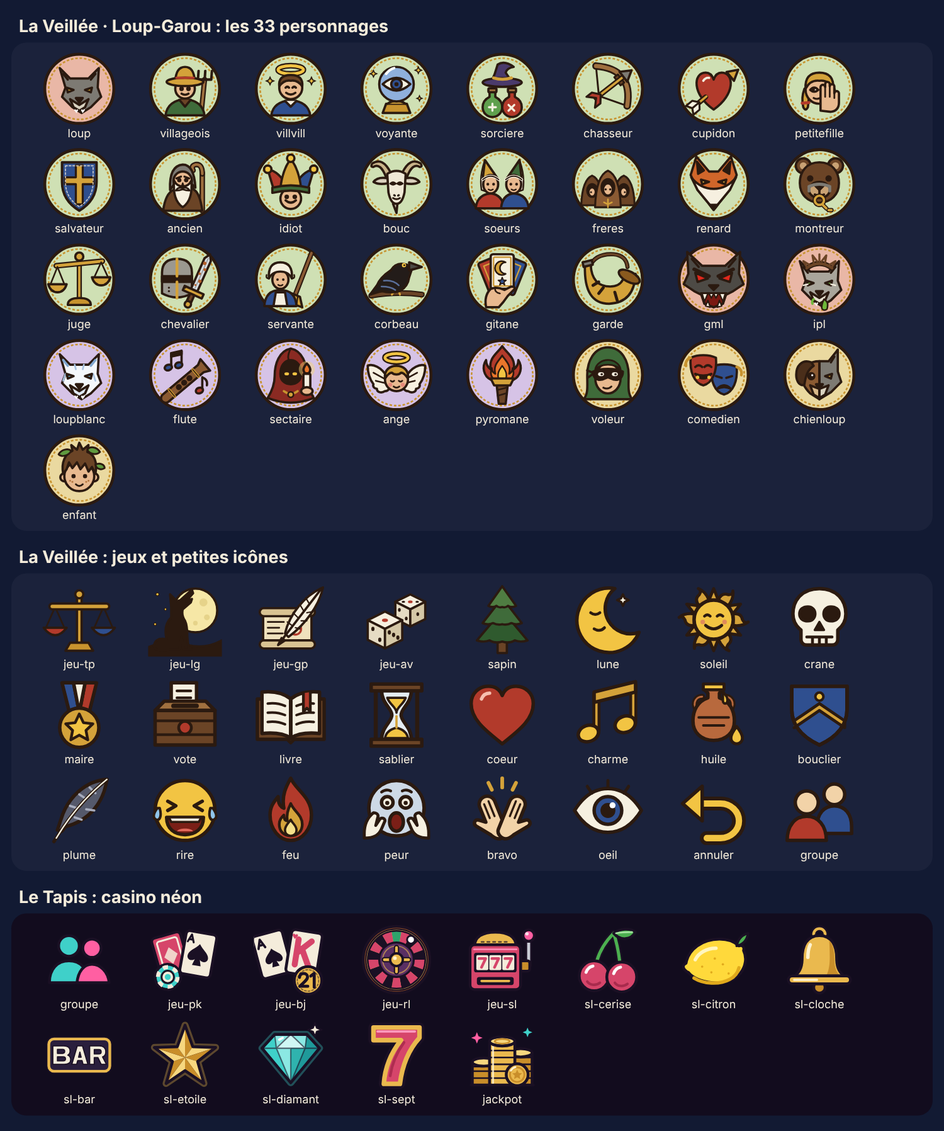
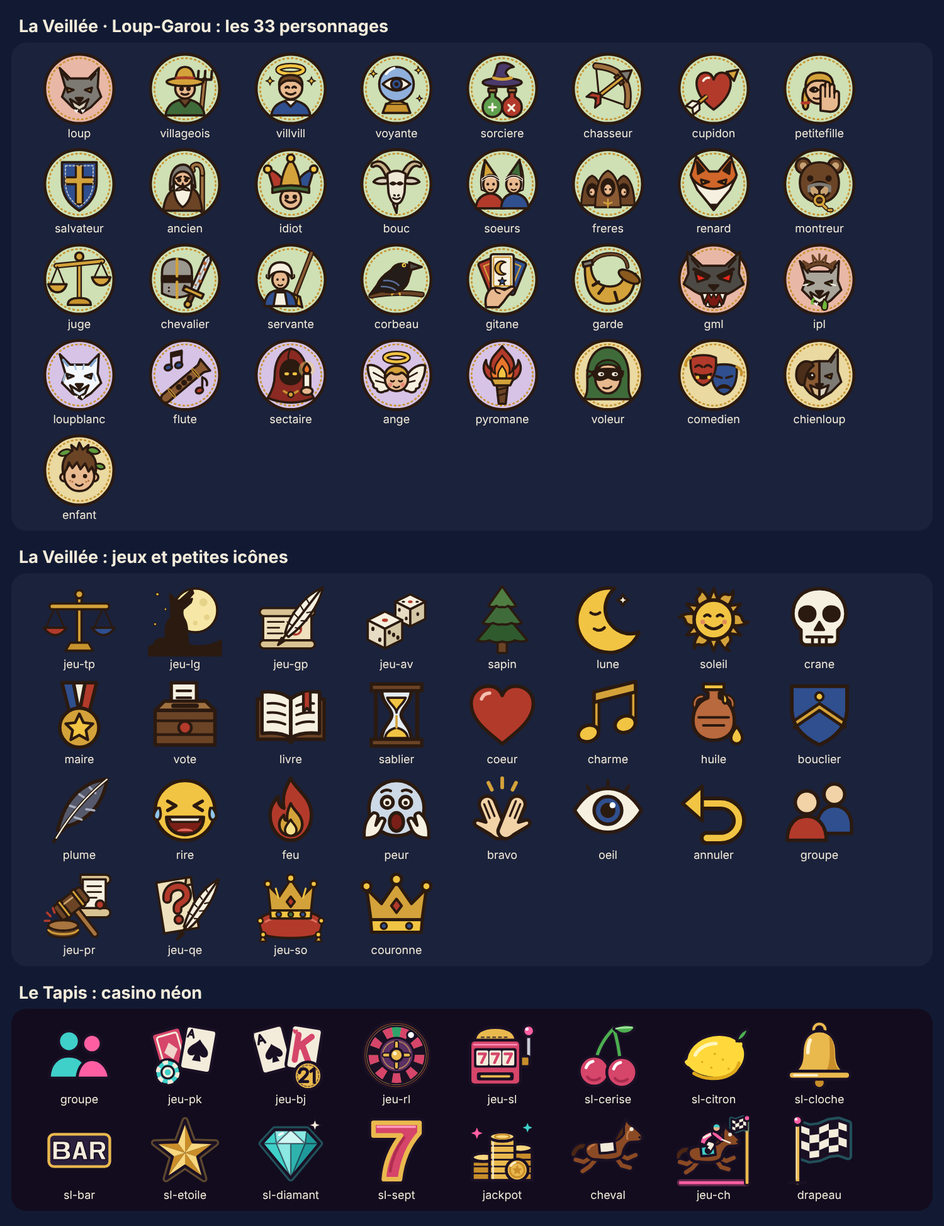
Le Tapis : Course de chevaux
Six chevaux aux cotes différentes (×2,5 à ×14), paris sur les téléphones,
arrivée tirée par l'hôte selon les cotes, course rejouée image par image
et à l'identique sur tous les téléphones avec commentaires, trompette,
sabots et foule. Podium, gains, recave et gages en option. Essai ch dans
le banc (écart entre téléphones à mi-course, gains vérifiés), README et
planche d'icônes à jour.

Claude-Session: https://claude.ai/code/session_01GqU4okh1CJmPbZ2wH64ZM8

diff --git a/apps/tapis/index.html b/apps/tapis/index.html
@@ -110,6 +110,23 @@
 .podium .p1 { order: 2; } .podium .p1 .step { height: 92px; background: var(--gold); }
 .podium .p2 { order: 1; } .podium .p2 .step { height: 66px; }
 .podium .p3 { order: 3; } .podium .p3 .step { height: 48px; background: #e0b38a; }
+/* Course de chevaux */
+.ch-board { display: flex; flex-direction: column; gap: 6px; }
+.ch-bet { position: relative; display: grid; grid-template-columns: 26px 40px 1fr; align-items: center; gap: 8px; padding: 8px 10px; border-radius: 14px; text-align: left; background: rgba(20,12,34,.7); border: 2px solid var(--c); color: #fff; }
+.ch-bet .ch-nm small { display: block; color: var(--muted); font-size: .78rem; }
+.ch-bet .rl-chip { top: 50%; right: 10px; transform: translateY(-50%); }
+.ch-num { width: 24px; height: 24px; border-radius: 50%; display: grid; place-items: center; font-weight: 800; font-size: .8rem; background: rgba(255,255,255,.12); }
+.ch-ic svg.icn, .ch-horse svg.icn { width: 40px; height: 40px; }
+.ch-track { position: relative; display: flex; flex-direction: column; gap: 4px; padding: 8px 6px; border-radius: 16px; background: linear-gradient(90deg, #2c6b3f, #23593a); box-shadow: inset 0 0 0 3px #eab94e, 0 10px 26px rgba(0,0,0,.45); overflow: hidden; }
+.ch-lane { position: relative; height: 44px; border-bottom: 1px dashed rgba(255,255,255,.25); display: flex; align-items: center; }
+.ch-lane:last-of-type { border-bottom: 0; }
+.ch-lane .ch-num { position: absolute; left: 0; z-index: 1; background: rgba(0,0,0,.35); }
+.ch-horse { position: absolute; left: 4px; will-change: transform; filter: drop-shadow(0 2px 2px rgba(0,0,0,.4)); }
+.ch-finish { position: absolute; top: 0; bottom: 0; right: 6px; width: 10px; background: repeating-linear-gradient(0deg, #fff 0 8px, #1a1024 8px 16px); opacity: .9; }
+.ch-say { text-align: center; font-family: var(--font-display); font-size: 1.3rem; color: var(--gold); text-shadow: 0 0 10px rgba(255,95,162,.45); min-height: 2.6em; margin: 0; display: grid; place-items: center; }
+.ch-hist { display: flex; gap: 6px; flex-wrap: wrap; justify-content: center; }
+.ch-hist span { font-size: .78rem; padding: 4px 9px; border-radius: 999px; border: 1px solid var(--c); color: #fff; }
+.podium .pl .ch-ic svg.icn { width: 46px; height: 46px; }
 /* Salle de jeu : moquette bordeaux à losanges dorés, néons */
 body { background-color: var(--felt);
   background-image: linear-gradient(180deg, rgba(255,95,162,.16) 0%, rgba(234,120,80,.10) 18%, transparent 42%),
@@ -138,7 +155,7 @@ body { background-color: var(--felt);
 <script>
 window.APP = {
   id: 'tapis', name: 'Le Tapis', of: 'du Tapis', logo: ['Le', 'Tapis'],
-  tagline: 'Poker, Blackjack, Roulette et Machine à sous entre amis, chacun sur son téléphone.',
+  tagline: 'Poker, Blackjack, Roulette, Machine à sous et Course de chevaux entre amis, chacun sur son téléphone.',
   hooks: ['Faites vos jeux, rien ne va plus.', 'Ce soir, le bluff est obligatoire.', 'Tapis ! Pour la gloire, jamais pour l\'argent.', 'La banque ne perd jamais… ou presque.', 'Garde ton meilleur visage de joueur de poker.'],
   deal: ['♥', '♠', '♦'],
   adult: true,
@@ -148,17 +165,18 @@ window.APP = {
     { id: 'pk', name: 'Poker', icon: 'jeu-pk', color: '#3fd0c9', players: '2 à 20 joueurs', desc: "Texas Hold'em : tes cartes sur ton téléphone, l'appli gère pot, blindes et abattage." },
     { id: 'bj', name: 'Blackjack', icon: 'jeu-bj', color: '#ff7aa8', players: '1 à 20 joueurs', desc: "Tout le monde contre la banque, tenue par l'appli. Gages de soirée en option." },
     { id: 'rl', name: 'Roulette', icon: 'jeu-rl', color: '#f2c45a', players: '1 à 20 joueurs', desc: "Pose tes jetons sur le tapis depuis ton téléphone, la bille tourne pour tout le monde." },
+    { id: 'ch', name: 'Course de chevaux', icon: 'jeu-ch', color: '#7fe0b0', players: '1 à 20 joueurs', desc: "Pariez sur six chevaux aux cotes différentes, puis la course se joue en direct sur tous les téléphones, commentée." },
     { id: 'sl', name: 'Machine à sous', icon: 'jeu-sl', color: '#b98cff', players: '1 à 20 joueurs', desc: "Chacun sa machine sur son téléphone, un jackpot commun qui grimpe pour tout le monde. Tournoi en option." },
   ],
   legal: {
-    what: 'est un jeu de casino entre amis en ligne (Poker, Blackjack, Roulette, Machine à sous) sans argent',
+    what: 'est un jeu de casino entre amis en ligne (Poker, Blackjack, Roulette, Machine à sous, Course de chevaux) sans argent',
     dataExtra: ' (cartes, mises en jetons fictifs)',
     sections: [
       ['Public concerné', `<p>Le Tapis est réservé aux personnes majeures (18 ans et plus). Une confirmation est demandée au premier lancement.</p>`],
       ['Aucun argent réel', `<p>Le Tapis est un jeu de simulation, sans argent. Les jetons sont fictifs : ils sont distribués gratuitement, ne peuvent pas être achetés, ni gagnés, ni échangés contre de l'argent, un lot ou un avantage quelconque. Aucun paiement n'est possible dans l'application.</p>
         <p>Il est interdit d'utiliser Le Tapis comme support à des paris ou des mises en argent entre joueurs.</p>
         <p>Les jeux d'argent comportent des risques : endettement, dépendance… Si tu ressens le besoin d'en parler, Joueurs Info Service répond au 09 74 75 13 13 (appel non surtaxé).</p>`],
-      ['Alcool', `<p>L'option « gorgées » du Blackjack, de la Roulette et de la Machine à sous est facultative. L'abus d'alcool est dangereux pour la santé, à consommer avec modération. L'option « gages » ou « aucun » permet de jouer sans alcool.</p>`],
+      ['Alcool', `<p>L'option « gorgées » du Blackjack, de la Roulette, de la Machine à sous et de la Course de chevaux est facultative. L'abus d'alcool est dangereux pour la santé, à consommer avec modération. L'option « gages » ou « aucun » permet de jouer sans alcool.</p>`],
     ],
     ip: `<p>Le Poker (Texas Hold'em), le Blackjack, la Roulette et la machine à sous sont des jeux traditionnels dont les règles sont libres. Les tirages (cartes, numéro de la roulette, rouleaux de la machine) sont faits au hasard par le téléphone de l'hôte. Le Tapis n'est affilié à aucun casino, opérateur de jeux ou site de poker.</p>`,
   },
@@ -1012,6 +1030,179 @@ Object.assign(actions, {
   'sl-libre'() { const H = MP.H; H.cfg.mode = 'libre'; H.players.forEach(p => { p.last = null; }); H.step = 'play'; mpPush(); },
 });
 
+/* ---------- Course de chevaux ---------- */
+// Six chevaux, des cotes du favori à l'outsider. L'hôte tire l'arrivée au hasard (selon les cotes) et la course
+// est rejouée à l'identique sur tous les téléphones, avec les commentaires.
+const CH_PAY = [2.5, 4, 5, 7, 9, 14];
+const CH_COLORS = ['#ff5fa2', '#3fd0c9', '#eab94e', '#8fb6ff', '#7fe0b0', '#ff8a5c'];
+const CH_NAMES = ['Tonnerre de Brest', 'Petit Poney', 'Éclair de Lune', 'Brioche', 'Pégase Turbo', 'Croquette', 'Flamme du Désert', 'Gros Câlin', 'Roi du Turf', 'Paillette', 'Cacahuète', 'Tempête', 'Saucisson Sec', 'Fusée Rose', 'Galopin', 'Madame Rillettes', 'Comète', 'Biscotte', 'Grand Duc', 'Princesse Néon', 'Dernier Espoir', 'Vent du Sud', 'Patate Douce', 'Jackpot'];
+const CH_CHIPS = [10, 25, 50, 100], CH_SEG = 10;
+const chSum = b => Object.values(b || {}).reduce((s, a) => s + a, 0);
+function chHorses() { return shuffle(CH_NAMES.slice()).slice(0, 6).map((name, i) => ({ name, pay: CH_PAY[i], color: CH_COLORS[i] })); }
+// L'arrivée : tirage pondéré par les cotes (le favori gagne plus souvent), puis des trajectoires qui font des rebondissements
+function chRace(horses) {
+  const left = horses.map((h, i) => i), order = [];
+  while (left.length) {
+    const w = left.map(i => 1 / horses[i].pay), tot = w.reduce((a, b) => a + b, 0);
+    let r = Math.random() * tot, k = 0;
+    while (k < left.length - 1 && (r -= w[k]) > 0) k++;
+    order.push(left.splice(k, 1)[0]);
+  }
+  const T = [], tracks = [];
+  order.forEach((h, rank) => { T[h] = 10500 + rank * (380 + rand(260)); });
+  horses.forEach((h, i) => {
+    const sp = Array.from({ length: CH_SEG }, () => .55 + Math.random() * .9), tot = sp.reduce((a, b) => a + b, 0);
+    let x = 0; tracks[i] = [0].concat(sp.map(v => +(x += v / tot).toFixed(4)));
+    tracks[i][CH_SEG] = 1;
+  });
+  return { order, T, tracks, dur: Math.max(...T) + 900 };
+}
+// Position d'un cheval (0 au départ, 1 à l'arrivée) au temps t
+function chPos(race, i, t) {
+  const u = Math.min(1, Math.max(0, t / race.T[i])) * CH_SEG, k = Math.min(CH_SEG - 1, Math.floor(u)), tr = race.tracks[i];
+  return tr[k] + (tr[k + 1] - tr[k]) * (u - k);
+}
+MPG.ch = {
+  lateJoin: true,
+  rules: () => ({ title: 'Course de chevaux', steps: [
+    "Un joueur crée la partie et donne le code ; les autres la rejoignent. Chacun commence avec 1 000 jetons fictifs.",
+    "Six chevaux au départ, chacun avec sa cote : le favori paie 2,5 fois la mise, l'outsider 14 fois.",
+    "Choisis ta mise, touche un ou plusieurs chevaux, puis valide. Quand tout le monde est prêt, c'est le départ !",
+    "La course se joue en direct sur tous les téléphones, commentée. Si ton cheval gagne, tu touches ta mise multipliée par sa cote.",
+  ], tips: ["Le favori gagne plus souvent, mais rapporte moins. L'outsider, c'est pour les cœurs vaillants.", "Gages de soirée (au choix de l'hôte) : un pari perdu = une gorgée ou un gage, un outsider gagnant = 3 à distribuer. L'abus d'alcool est dangereux pour la santé.", "Jetons fictifs uniquement : on joue pour la gloire, jamais d'argent."] }),
+  init: name => ({ step: 'lobby', players: [MPG.ch.join({ cid: MP_CID, name: mpCleanName(name) || 'Hôte', on: true })], cfg: { gages: store.get('chGages', 'sips') }, horses: chHorses(), race: null, n: 0, hist: [] }),
+  join: p => Object.assign(casinoNew(p), { bets: {}, ready: false, gain: 0 }),
+  resume() { if (MP.H.step === 'race') chFinish(); },
+  act(cid, d) {
+    const H = MP.H, p = mpP(cid);
+    if (!p) return;
+    if (d.t === 'ch-bet' && H.step === 'bet' && !p.ready) {
+      const bets = {};
+      for (const [k, v] of Object.entries(d.bets || {})) { const i = +k, a = Math.floor(+v); if (!(i >= 0 && i < 6) || !(a >= 1)) return; bets[i] = a; }
+      const sum = chSum(bets);
+      if (!sum || sum > p.chips) return;
+      Object.assign(p, { bets, ready: true }); p.chips -= sum;
+      const want = H.players.filter(x => x.on && (x.ready || x.chips >= 10));
+      if (want.every(x => x.ready)) chStart(); else mpPush();
+    } else if (d.t === 'ch-unbet' && H.step === 'bet' && p.ready) { p.chips += chSum(p.bets); Object.assign(p, { bets: {}, ready: false }); mpPush(); }
+    else if (d.t === 'ch-rebuy' && H.step !== 'race' && !p.ready) casinoRebuy(p);
+  },
+  view(cid) {
+    const H = MP.H, p = mpP(cid) || {};
+    const v = { game: 'ch', step: H.step, n: H.n, horses: H.horses, hist: H.hist, gages: H.cfg.gages !== 'off', mode: H.cfg.gages, alc: H.cfg.gages === 'sips',
+      bets: p.bets || {}, players: H.players.map(x => ({ name: x.name, on: !!x.on, chips: x.chips, ready: !!x.ready, stake: chSum(x.bets), gain: x.gain || 0, re: x.re || 0, me: x.cid === cid, bets: H.step === 'bet' ? null : x.bets })) };
+    if (H.race) v.race = { order: H.race.order, T: H.race.T, tracks: H.race.tracks, dur: H.race.dur, el: Date.now() - H.race.at };
+    return v;
+  },
+  notify(prev, v) { if (v.race && v.step === 'race' && (!prev || prev.step !== 'race')) MP.chAt = Date.now() - v.race.el; if (v.step === 'bet' && (!prev || prev.step !== 'bet')) MP.chDraft = null; },
+  after: () => chAnim(),
+  screen() { return chScreen(MP.role === 'host' ? MPG.ch.view(MP_CID) : MP.view); },
+};
+function chStart() {
+  const H = MP.H;
+  if (H.step !== 'bet' || !H.players.some(p => p.ready)) return;
+  H.race = Object.assign(chRace(H.horses), { at: Date.now() });
+  H.step = 'race';
+  mpPush();
+  mpTimer('chT', chFinish, H.race.dur);
+}
+function chFinish() {
+  const H = MP.H, win = H.race ? H.race.order[0] : 0;
+  H.players.forEach(p => {
+    if (!p.ready) { p.gain = 0; return; }
+    const won = Math.floor((p.bets[win] || 0) * H.horses[win].pay);
+    p.chips += won; p.gain = won - chSum(p.bets);
+  });
+  H.hist = [{ name: H.horses[win].name, pay: H.horses[win].pay, color: H.horses[win].color }].concat(H.hist).slice(0, 8);
+  H.step = 'result'; H.n++;
+  mpPush();
+}
+// La course, image par image : chaque téléphone la rejoue à partir de la même heure de départ
+let chRaf = 0;
+function chAnim() {
+  cancelAnimationFrame(chRaf);
+  const v = MP.role === 'host' ? MPG.ch.view(MP_CID) : MP.view;
+  if (!v || v.step !== 'race' || !v.race) return;
+  const start = MP.role === 'host' ? MP.H.race.at : MP.chAt || Date.now() - v.race.el, race = v.race;
+  let lead = -1, said = '';
+  const say = txt => { if (txt === said) return; said = txt; const c = document.getElementById('chSay'); if (c) c.textContent = txt; };
+  const frame = () => {
+    const track = document.getElementById('chTrack');
+    if (!track) return;
+    const t = Date.now() - start, w = track.clientWidth - 62;
+    let best = 0, bx = -1;
+    v.horses.forEach((h, i) => {
+      const x = chPos(race, i, t), el = document.getElementById('chH' + i);
+      if (el) el.style.transform = `translateX(${(x * w).toFixed(1)}px)`;
+      if (x > bx) { bx = x; best = i; }
+    });
+    const win = race.order[0], name = i => v.horses[i].name;
+    if (t >= race.T[win]) say(`${name(win)} l'emporte ! Quelle course !`);
+    else if (t < 1300) say('Et c\'est parti !');
+    else if (t > race.T[win] * .78) say(`Dernière ligne droite ! ${name(best)} devant…`);
+    else if (best !== lead) say(lead < 0 ? `${name(best)} prend la tête !` : `${name(best)} passe en tête !`);
+    lead = best;
+    if (t < race.dur) chRaf = requestAnimationFrame(frame);
+  };
+  frame();
+}
+function chScreen(v) {
+  const host = MP.role === 'host', me = v.players.find(p => p.me) || { chips: 0 };
+  if (v.step === 'lobby') return casinoLobby(v, { start: 'ch-open', min: 1, panel: `<section class="panel"><h3><span>Gages de soirée</span></h3>
+    <div class="levels three" role="group" aria-label="Gages de soirée">${[['off', 'Aucun'], ['sips', 'Gorgées'], ['gages', 'Gages']].map(([k, l]) => `<button data-a="ch-gages" data-v="${k}" aria-pressed="${v.mode === k}">${l}</button>`).join('')}</div>
+    <p class="hint">${v.gages ? `Pari perdu : ${v.alc ? 'une gorgée' : 'un gage'}. Outsider gagnant (cote 7 ou plus) : 3 à distribuer.` : 'On joue seulement pour les jetons.'}</p></section>` });
+  const stack = `<p class="howto"><span class="chipline">${chipsTxt(me.chips)}</span>${me.re ? ` · ${me.re} recave${me.re > 1 ? 's' : ''}` : ''}</p>`;
+  const hist = v.hist.length ? `<div class="ch-hist" aria-label="Derniers gagnants">${v.hist.map(h => `<span style="--c:${h.color}">${esc(h.name)} <b>×${String(h.pay).replace('.', ',')}</b></span>`).join('')}</div>` : '';
+  const table = `<section class="panel"><h3><span>Les parieurs</span><span>${v.players.filter(p => p.ready).length} prêt·s</span></h3>
+    <div class="chips">${v.players.map(p => `<span class="chip tap ${p.ready ? 'on' : ''} ${p.on ? '' : 'off'}">${p.ready ? '✓ ' : ''}${avatar(p.name)}${esc(p.name)}<span class="n">${v.step === 'result' && p.stake ? (p.gain > 0 ? '+' + p.gain : p.gain) : p.ready ? p.stake : p.chips}</span></span>`).join('')}</div></section>`;
+  const track = `<div class="ch-track" id="chTrack">${v.horses.map((h, i) => `<div class="ch-lane"><span class="ch-num">${i + 1}</span><span class="ch-horse" id="chH${i}" style="color:${h.color}">${ic('cheval') || '🐎'}</span></div>`).join('')}<span class="ch-finish" aria-hidden="true"></span></div>`;
+  if (v.step === 'bet') {
+    let zone;
+    if (me.ready) zone = `<div class="card compact"><p class="kind">Tes paris</p><p class="text big-result">${chSum(v.bets)}</p>
+        <p class="sub">${Object.entries(v.bets).map(([i, a]) => `${esc(v.horses[i].name)} : ${a}`).join(' · ')}</p><p class="sub">En attente des autres parieurs…</p></div>
+      <button class="btn ghost" data-a="ch-unbet">Changer mes paris</button>`;
+    else if (me.chips < 10) zone = `<div class="card compact"><p class="kind">Plus de jetons</p><p class="text">Tu es à sec !</p></div><button class="btn big" data-a="ch-rebuy">Recave : ${chipsTxt(CASINO_STACK)}</button>`;
+    else {
+      const d = MP.chDraft || {}, chip = MP.chChip || 25, tot = chSum(d);
+      zone = `<div class="betbar">${CH_CHIPS.map(k => `<button class="jeton j${k === 50 ? 500 : k}" data-a="ch-chip" data-v="${k}" aria-pressed="${chip === k}" aria-label="Jeton de ${k}">${k}</button>`).join('')}</div>
+        <div class="ch-board">${v.horses.map((h, i) => `<button class="ch-bet" data-a="ch-put" data-v="${i}" style="--c:${h.color}"><span class="ch-num">${i + 1}</span><span class="ch-ic" style="color:${h.color}">${ic('cheval')}</span><span class="ch-nm"><b>${esc(h.name)}</b><small>cote ×${String(h.pay).replace('.', ',')}${i === 0 ? ' · favori' : i === 5 ? ' · outsider' : ''}</small></span>${d[i] ? `<span class="rl-chip">${d[i]}</span>` : ''}</button>`).join('')}</div>
+        <p class="hint" style="text-align:center">Jeton de ${chip} : touche un cheval pour parier. Total : <b class="chipline">${tot}</b></p>
+        <div class="row"><button class="btn ghost" data-a="ch-clear" ${tot ? '' : 'disabled'}>Effacer</button></div>
+        <button class="btn big" data-a="ch-bet" ${tot ? '' : 'disabled'}>${tot ? `Valider (${tot})` : 'Parie sur au moins un cheval'}</button>`;
+    }
+    return `<div class="turn"><small>Course ${v.n + 1}</small><strong>Faites vos paris</strong></div>${hist}${stack}${zone}${table}
+      ${host ? `<button class="btn" data-a="ch-go" ${v.players.some(p => p.ready) ? '' : 'disabled'}>Départ sans attendre</button>` : ''}`;
+  }
+  if (v.step === 'race') return `<div class="turn"><small>Course ${v.n + 1}</small><strong>Ils sont partis !</strong></div>
+    <p class="ch-say" id="chSay" aria-live="polite">Et c'est parti !</p>${track}${stack}`;
+  const order = v.race.order, mine = v.players.find(p => p.me) || {};
+  const outsider = v.horses[order[0]].pay >= 7, winners = v.players.filter(p => p.bets && p.bets[order[0]]).map(p => p.name), losers = v.players.filter(p => p.stake && p.gain < 0).map(p => p.name);
+  return `<div class="turn"><small>Course ${v.n}</small><strong>${esc(v.horses[order[0]].name)} gagne !</strong></div>
+    <div class="podium">${order.slice(0, 3).map((h, i) => `<div class="pl p${i + 1}"><span class="ch-ic" style="color:${v.horses[h].color}">${ic('cheval')}</span><b>${esc(v.horses[h].name)}</b><span class="step">${i + 1}</span></div>`).join('')}</div>
+    ${mine.stake ? `<div class="banner ${mine.gain > 0 ? 'gold' : ''}">${mine.gain > 0 ? `Gagné : +${mine.gain}` : `Perdu : ${mine.gain}`}</div>` : ''}
+    ${v.gages && (losers.length || (outsider && winners.length)) ? `<p class="howto">${losers.length ? `${esc(losers.join(', '))} : ${v.alc ? 'une gorgée' : 'un gage'} chacun·e.` : ''} ${outsider && winners.length ? `${esc(winners.join(', '))} distribue${winners.length > 1 ? 'nt' : ''} 3 ${v.alc ? 'gorgées' : 'gages'} (outsider !).` : ''}</p>` : ''}
+    ${stack}${table}
+    ${me.chips < 10 ? `<button class="btn" data-a="ch-rebuy">Recave : ${chipsTxt(CASINO_STACK)}</button>` : ''}
+    ${host ? `<button class="btn big" data-a="ch-next">Nouvelle course</button>` : `<p class="howto">L'hôte lance la course suivante.</p>`}`;
+}
+Object.assign(actions, {
+  'ch-gages'(k) { MP.H.cfg.gages = k; store.set('chGages', k); mpPush(); },
+  'ch-open'() { MP.H.step = 'bet'; mpPush(); },
+  'ch-chip'(k) { MP.chChip = +k; render(false); },
+  'ch-put'(i) {
+    const v = MP.role === 'host' ? MPG.ch.view(MP_CID) : MP.view, me = v.players.find(p => p.me), chip = MP.chChip || 25;
+    const d = MP.chDraft = MP.chDraft || {};
+    if (chSum(d) + chip > me.chips) { toast('Pas assez de jetons pour ce pari.'); return; }
+    d[i] = (d[i] || 0) + chip; sfx('chip'); render(false);
+  },
+  'ch-clear'() { MP.chDraft = null; render(false); },
+  'ch-bet'() { if (MP.chDraft) { sfx('chips'); mpSend({ t: 'ch-bet', bets: MP.chDraft }); } },
+  'ch-unbet'() { mpSend({ t: 'ch-unbet' }); },
+  'ch-rebuy'() { mpSend({ t: 'ch-rebuy' }); },
+  'ch-go'() { chStart(); },
+  'ch-next'() { const H = MP.H; H.players.forEach(p => Object.assign(p, { bets: {}, ready: false, gain: 0 })); Object.assign(H, { step: 'bet', horses: chHorses(), race: null }); MP.chDraft = null; mpPush(); },
+});
+
 /* ---------- Musique : jazz lounge de salle de jeu ---------- */
 // Grille ii-V-I-VI en do : contrebasse qui marche, piano électrique, balais et vibraphone
 const TP_PROG = [[50, [3, 7, 10, 14]], [43, [4, 10, 14, 16]], [48, [4, 7, 11, 14]], [45, [4, 10, 13, 16]]];
@@ -1079,8 +1270,17 @@ MPG.sl.sound = (prev, v) => {
   if (l && (!pl || pl.id !== l.id)) { MP.slAnim = { id: l.id, at: Date.now() }; sfx('reels'); }
   if (v.step === 'end' && prev.step !== 'end') sfx('fanfare');
 };
+MPG.ch.sound = (prev, v) => {
+  if (v.step === 'bet' && readyCount(v) > readyCount(prev)) sfx('chip');
+  if (v.step === 'race' && prev.step !== 'race' && v.race) { sfx('bugle'); setTimeout(() => sfx('gallop', v.race.dur - 1400), 1300); }
+  if (v.step === 'result' && prev.step !== 'result') { sfx('crowd'); const me = tpMe(v); if (me.stake) setTimeout(() => sfx(me.gain > 0 ? 'win' : 'lose'), 600); }
+};
 // Bruitages de la machine à sous
 Object.assign(SFX, {
+  // Course de chevaux : la trompette du départ, les sabots, la foule à l'arrivée
+  bugle(t) { [[67, .14], [72, .14], [76, .14], [79, .28], [76, .14], [79, .5]].reduce((s, [m, d]) => { note(s, m, d, .05, { type: 'sawtooth', cut: 2600, a: .015, rel: .1, fx: .3, bus: 'sfx', detune: 4 }); return s + d + .02; }, t); },
+  gallop(t, ms = 10000) { const T = ms / 1000; for (let s = 0; s < T; s += .19) [0, .045, .09].forEach((d, k) => { const p = s / T, v = .1 * (k === 2 ? .7 : 1) * (p < .1 ? p * 10 : 1); hiss('sfx', t + s + d, .03, v, { type: 'lowpass', f: 420, q: 1.5 }); tone('sfx', t + s + d, 90 + rand(30), .04, v * .5); }); },
+  crowd(t) { hiss('sfx', t, 2.6, .16, { f: 1100, q: .5, a: .25 }); hiss('sfx', t + .2, 2.2, .1, { f: 2400, q: .8, a: .3 }); [0, .35, .7].forEach(d => tone('sfx', t + d, 880 + rand(300), .2, .03, { type: 'triangle' })); },
   lever(t) { hiss('sfx', t, .18, .25, { f: 900, to: 300, q: 2 }); tone('sfx', t + .16, 140, .12, .12, { to: 80 }); },
   // Les rouleaux tournent (cliquetis), puis s'arrêtent un par un avec un « clonk »
   reels(t) {

diff --git a/tests/banc.js b/tests/banc.js
@@ -433,6 +433,32 @@ async function run() {
     t.metric('tirages joués', st.n);
   });
 
+  await scenario('ch', 'Course de chevaux : paris, course identique partout, gains vérifiés', 'tapis', async t => {
+    const [host, code] = await t.host('ch');
+    const ps = [host];
+    for (let i = 2; i <= 6; i++) ps.push((await t.join(i, code, 'Joueur ' + i))[0]);
+    // Le favori gagne plus souvent que l'outsider (10 000 courses simulées)
+    const wins = await t.eval(host, () => { const w = [0, 0, 0, 0, 0, 0], h = chHorses(); for (let i = 0; i < 1e4; i++) w[chRace(h).order[0]]++; return w; });
+    t.check(wins[0] > wins[5] * 3, 'cotes mal respectées : ' + wins);
+    await host.click('[data-a=ch-open]');
+    for (let r = 0; r < 2; r++) {
+      await t.until(ps, () => !!document.querySelector('[data-a=ch-put]'));
+      const before = await t.eval(host, () => MP.H.players.reduce((s, p) => s + p.chips, 0));
+      for (const [i, p] of ps.entries()) { await p.click(`[data-a=ch-put][data-v="${i % 6}"]`); await p.click('[data-a=ch-bet]'); }
+      await t.until(ps, () => (MP.role === 'host' ? MP.H.step : MP.view.step) === 'race');
+      // À mi-course, tous les téléphones montrent les chevaux au même endroit (à quelques pixels près)
+      await ps[0].waitForTimeout(5000);
+      const pos = await Promise.all(ps.map(p => t.eval(p, () => [...document.querySelectorAll('.ch-horse')].map(e => new DOMMatrix(getComputedStyle(e).transform).m41))));
+      const spread = Math.max(...pos[0].map((_, k) => Math.max(...pos.map(x => x[k])) - Math.min(...pos.map(x => x[k]))));
+      if (!r) t.metric('écart entre téléphones à mi-course', Math.round(spread) + ' px');
+      t.check(pos[0].some(x => x > 20) && spread < 30, 'course désynchronisée : écart ' + spread);
+      await t.until(ps, () => (MP.role === 'host' ? MP.H.step : MP.view.step) === 'result', null, 15000);
+      const res = await t.eval(host, () => { const w = MP.H.race.order[0]; return [MP.H.players.reduce((s, p) => s + p.chips, 0), MP.H.players.reduce((s, p) => s + Math.floor((p.bets[w] || 0) * MP.H.horses[w].pay) - chSum(p.bets), 0)]; });
+      t.check(res[0] - before === res[1], 'gains de la course incohérents');
+      await host.click('[data-a=ch-next]');
+    }
+  });
+
   await scenario('reco', 'Reconnexion : un joueur redémarre son téléphone et retrouve sa carte', 'veillee', async t => {
     const [mj, code] = await t.host('lg', true);
     const ps = [];

diff --git a/web/index.html b/web/index.html
@@ -37,8 +37,8 @@ a { color: var(--gold); }
   <p class="lead">Trois applis pour vos soirées, sur iPhone comme sur Android. Les iPhone et les Android jouent ensemble dans les mêmes parties.</p>
   <div class="apps">
     <a class="app" href="tournee/"><img src="icon-tournee.png" alt=""><span><b>La Tournée</b><span>Un seul téléphone qui fait le tour de la table. Marche sans internet.</span></span><em aria-hidden="true">›</em></a>
-    <a class="app" href="veillee/"><img src="icon-veillee.png" alt=""><span><b>La Veillée</b><span>Loup-Garou (jusqu'à 47 joueurs), Téléphone dessiné, Tu préfères, Qui pourrait, Action ou Vérité. Chacun sur son téléphone, on rejoint en scannant un QR code.</span></span><em aria-hidden="true">›</em></a>
-    <a class="app" href="tapis/"><img src="icon-tapis.png" alt=""><span><b>Le Tapis</b><span>Poker, Blackjack, Roulette et Machine à sous entre amis, jetons fictifs, 18 ans et plus.</span></span><em aria-hidden="true">›</em></a>
+    <a class="app" href="veillee/"><img src="icon-veillee.png" alt=""><span><b>La Veillée</b><span>Loup-Garou (jusqu'à 47 joueurs), Téléphone dessiné, Tu préfères, Qui pourrait, Qui a écrit ça ?, Le Procès, Action ou Vérité et la Soirée à thème. Chacun sur son téléphone, on rejoint en scannant un QR code.</span></span><em aria-hidden="true">›</em></a>
+    <a class="app" href="tapis/"><img src="icon-tapis.png" alt=""><span><b>Le Tapis</b><span>Poker, Blackjack, Roulette, Machine à sous et Course de chevaux entre amis, jetons fictifs, 18 ans et plus.</span></span><em aria-hidden="true">›</em></a>
   </div>
   <section>
     <h2>Installer sur iPhone</h2>

diff --git a/tools/build-web.py b/tools/build-web.py
@@ -12,7 +12,7 @@ SITE = os.path.join(ROOT, 'site')
 APPS = {
     'tournee': ('La Tournée', 'Tournée', '#10261e', 'android-assets', "Jeux de soirée sur un seul téléphone qui fait le tour de la table."),
     'veillee': ('La Veillée', 'Veillée', '#08161a', 'apps/veillee/android-assets', "Loup-Garou, Téléphone dessiné, Tu préfères, Action ou Vérité : chacun sur son téléphone."),
-    'tapis': ('Le Tapis', 'Tapis', '#120c1e', 'apps/tapis/android-assets', "Poker, Blackjack, Roulette et Machine à sous entre amis, jetons fictifs, chacun sur son téléphone."),
+    'tapis': ('Le Tapis', 'Tapis', '#120c1e', 'apps/tapis/android-assets', "Poker, Blackjack, Roulette, Machine à sous et Course de chevaux entre amis, jetons fictifs, chacun sur son téléphone."),
 }
 VERSION = time.strftime('%Y%m%d%H%M%S')
 

diff --git a/README.md b/README.md
@@ -75,15 +75,19 @@ Une veillée au cœur de la forêt : décor de village de nuit dans sa clairièr
 - **Téléphone dessiné** (3 joueurs minimum) : chacun écrit une phrase, le voisin la dessine, le suivant devine le dessin, et ainsi de suite. À la fin, l'hôte fait défiler les albums sur tous les téléphones. Chrono au choix.
 - **Qui pourrait…** (pour rire) : la question s'affiche sur tous les téléphones, chacun touche en secret le prénom de la personne qui colle le mieux, le plus désigné prend un gage. Niveaux Soft, **WTF** (plus de 50 questions absurdes) et Piquant.
 - **Couples** : dans le salon de Tu préfères, Qui pourrait et Action ou Vérité, l'hôte touche deux prénoms pour former un couple (gardés pour les soirées suivantes). Avec « les couples restent entre eux », on ne vote jamais pour soi ni pour son couple à Qui pourrait, et en Piquant les défis d'Action ou Vérité avec un autre joueur se font avec son ou sa partenaire (comme dans La Tournée).
+- **Qui a écrit ça ?** (3 joueurs minimum) : une question (« Ton pire souvenir de cantine »), chacun répond en secret, puis les réponses s'affichent une par une sans nom et tout le monde devine l'auteur. 1 point par bonne réponse, 1 point à l'auteur par personne bluffée.
+- **Le Procès** (3 joueurs minimum) : un accusé, un crime absurde (« A mangé le dernier Kinder »), un avocat et un procureur tirés au sort. Réquisitoire 30 s, plaidoirie 30 s, dernier mot 10 s, puis le jury vote en secret. Coupable : la peine ; innocent : le procureur paie les frais de justice.
+- **Soirée à thème** : l'hôte choisit les jeux et le nombre de manches (Tu préfères, Qui pourrait…, Qui a écrit ça ?, Le Procès, Action ou Vérité). Les jeux s'enchaînent, chaque manche rapporte des points, le classement s'affiche entre deux jeux et le meilleur est couronné roi ou reine de la soirée.
 - **Action ou Vérité** (fin de soirée) : chacun son tour, le joueur choisit sur son téléphone, la carte s'affiche chez tout le monde, chacun réagit (rire, feu, peur, bravo), joker = un gage. Niveaux Soft et Piquant, cartes reprises de La Tournée (qui garde sa version sur un seul téléphone).
 
 # Le Tapis
 
-Poker, Blackjack, Roulette et Machine à sous entre amis, chacun sur son téléphone, avec 1 000 jetons **fictifs** par joueur (recave possible) : jamais d'argent réel. Réservé aux majeurs (confirmation au premier lancement). On peut rejoindre la table entre deux mains.
+Poker, Blackjack, Roulette, Machine à sous et Course de chevaux entre amis, chacun sur son téléphone, avec 1 000 jetons **fictifs** par joueur (recave possible) : jamais d'argent réel. Réservé aux majeurs (confirmation au premier lancement). On peut rejoindre la table entre deux mains.
 - **Poker** (Texas Hold'em sans limite, 2 à 10 joueurs) : deux cartes secrètes sur ton téléphone, le tapis au centre (flop, turn, river), blindes au choix (5/10, 10/20, 25/50). L'appli gère le bouton, les relances, les tapis, les pots partagés et l'abattage.
 - **Blackjack** : tout le monde contre la banque tenue par l'appli (sabot de 6 jeux, la banque tire jusqu'à 17, blackjack payé 3 pour 2, doubler possible). Gages de soirée au choix : aucun, gorgées ou gages.
 - **Roulette** (européenne, un seul zéro) : chacun pose ses jetons sur le tapis de son téléphone (pleins, rouge/noir, pair/impair, manque/passe, douzaines, colonnes), puis la bille est lancée et la roue tourne en même temps sur tous les téléphones. Historique des derniers numéros, « rejouer mes mises », gages en option.
 - **Machine à sous** : chacun sa machine néon sur son téléphone (mise de 5 à 50, levier, trois rouleaux qui s'arrêtent l'un après l'autre). Trois pareils de 5 à 100 fois la mise, deux cerises 2 fois, trois 7 = **jackpot commun** qui grossit à chaque tirage de n'importe qui et s'annonce sur tous les téléphones. Classement en direct, mode **tournoi** (10, 20 ou 30 tirages chacun, podium à la fin) et gages en option.
+- **Course de chevaux** : six chevaux aux noms rigolos et aux cotes différentes (du favori ×2,5 à l'outsider ×14). Chacun parie sur son téléphone, puis la course se joue en direct et à l'identique sur tous les téléphones, commentée (« Brioche passe en tête ! »), avec trompette, sabots et foule. Podium, gains et gages en option.
 
 ## Icônes
 Toutes les icônes sont dessinées pour les applis (SVG dans `shared/icones.js`, `shared/ic-veillee.js` et `shared/ic-tapis.js`), à la place des émojis : style enluminure médiévale pour La Veillée (les 33 personnages du Loup-Garou en médaillons, teintés selon leur camp), néon années 80 pour Le Tapis. Dans un texte, `[[loup]]` devient l'icône à l'affichage. Planche complète : [`docs/icones.png`](docs/icones.png).
@@ -109,7 +113,7 @@ Les mentions légales propres à chaque appli (public, alcool, absence d'argent 
 
 ## Tester avant de jouer
 
-- **Banc d'essai automatique** : `npm test` (après `npm ci`). Des téléphones virtuels jouent chaque jeu en ligne du début à la fin : Loup-Garou complet (pouvoirs, maire, votes, fin automatique avec victoire ou défaite), charge maximale à 47 joueurs, Téléphone dessiné, Tu préfères, Qui pourrait (couples respectés), Action ou Vérité, Poker (aucun jeton perdu), Blackjack et Roulette (paiements vérifiés, 20 joueurs), Machine à sous (tournoi à 6, jackpot, taux de gain simulé sur un million de tirages), reconnexion et sons. Il mesure les temps de réponse et écrit `tests/rapport.md`. `npm test -- lg rl` ne lance que certains essais. Il tourne aussi sur GitHub à chaque modification (onglet Actions, « Banc d'essai des jeux en ligne »).
+- **Banc d'essai automatique** : `npm test` (après `npm ci`). Des téléphones virtuels jouent chaque jeu en ligne du début à la fin : Loup-Garou complet (pouvoirs, maire, votes, fin automatique avec victoire ou défaite), charge maximale à 47 joueurs, Téléphone dessiné, Tu préfères, Qui pourrait (couples respectés), Action ou Vérité, Poker (aucun jeton perdu), Blackjack et Roulette (paiements vérifiés, 20 joueurs), Machine à sous (tournoi à 6, jackpot, taux de gain simulé sur un million de tirages), Course de chevaux (course identique sur tous les téléphones, gains vérifiés), Le Procès, Qui a écrit ça ?, Soirée à thème, reconnexion et sons. Il mesure les temps de réponse et écrit `tests/rapport.md`. `npm test -- lg rl` ne lance que certains essais. Il tourne aussi sur GitHub à chaque modification (onglet Actions, « Banc d'essai des jeux en ligne »).
 - **Téléphones virtuels** : `npm run telephones`, puis ouvre l'adresse affichée (http://localhost:8080). Jusqu'à 8 téléphones côte à côte, reliés sans internet : le téléphone 1 crée la partie, les autres la rejoignent (code et prénom déjà remplis), « ⟳ » redémarre un téléphone pour tester la reconnexion.
 
 ## Applis Android
